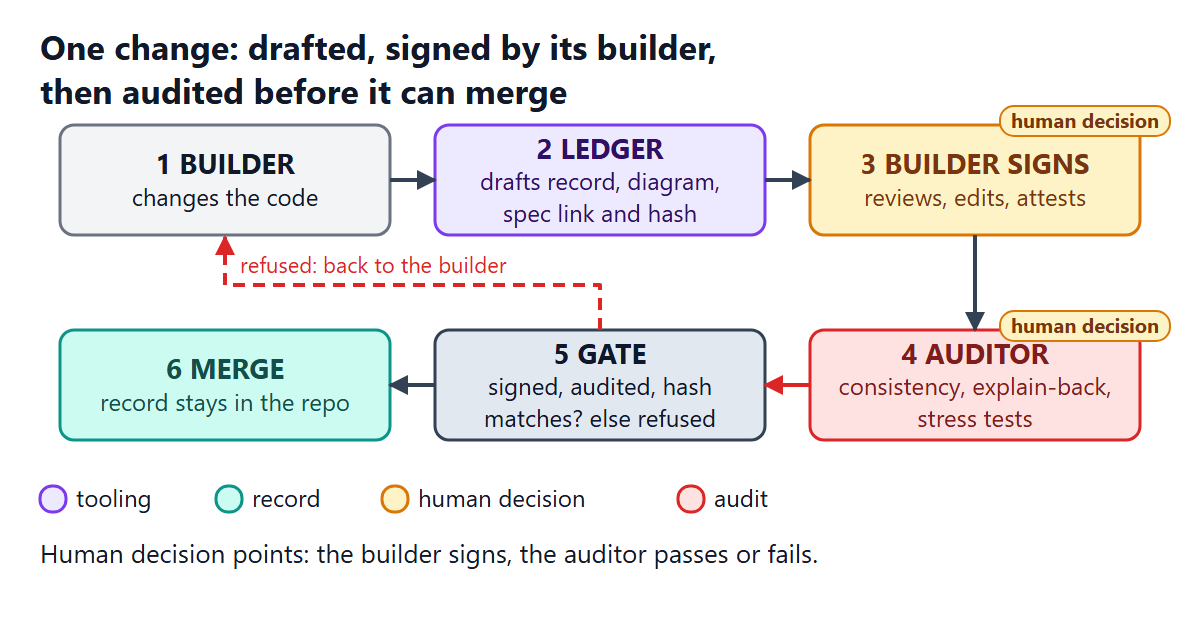
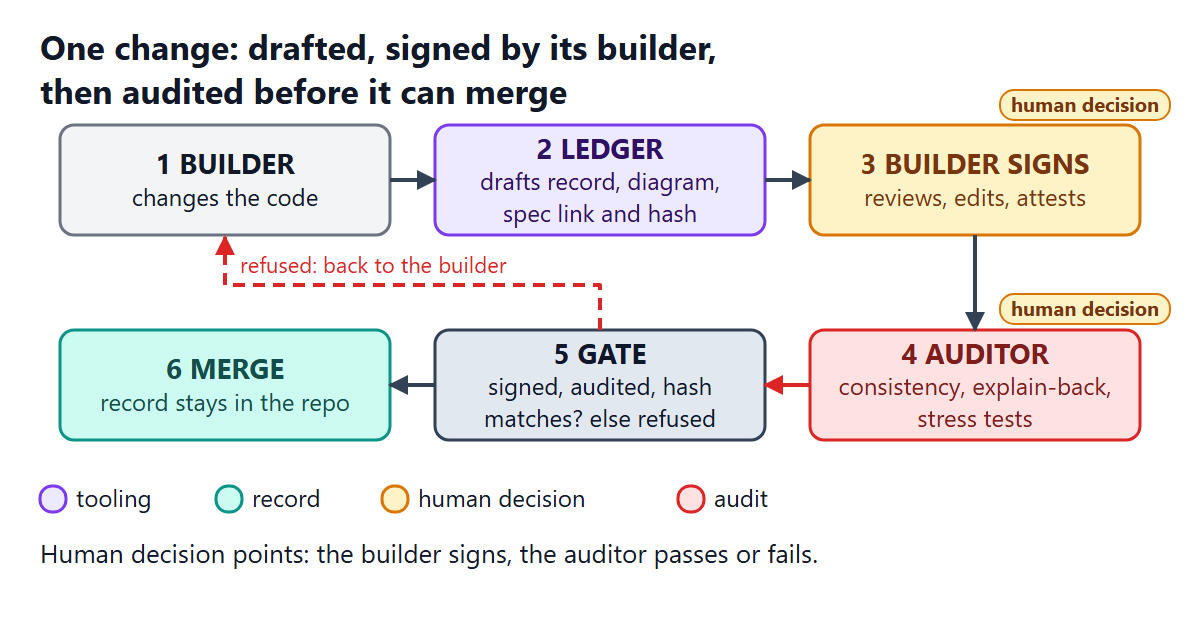
Round 2: open-proposal framing, one depth table, neutral examples, simpler demo
- README: personal-project line, a "Help shape this pattern" section, an
  honest note that a demo signature is a typed name, what auditors look at.
- SPEC: the gate uses the base branch's policy (6.2); the Ledger layer
  definition in the terms; decision text is frozen once accepted (2.5);
  section reference fix.
- Reference implementation: removed the plug-in loader, labelled as an
  illustration (not production software, not on PyPI), explicit UTF-8,
  clearer notes on the action and its limits.
- Diagrams: 01 has the Ledger bar beside Model, View and Controller with an
  arrow from each; 02 labels off the box borders; 04 shows the shared record.
- Templates, ledger.yml comment, and docs use one reversibility table.
- Actions bumped to checkout v5 and setup-python v6.

Changed region(s): [[0.8325, 0.1212, 0.9867, 0.2424], [0.8325, 0.4545, 0.9867, 0.5455]]

diff --git a/reference-implementation/ledger/draft.py b/reference-implementation/ledger/draft.py
@@ -1,15 +1,16 @@
-"""Step 1, the Ledger: draft a record for a change. Offline template by default; providers are pluggable."""
-import importlib
+"""Step 1, the Ledger: draft a record for a change, with a plain offline template (no AI, no network)."""
 import re
 from pathlib import Path
 
 from .policy import Policy
 from .records import Record, change_hash, load_all, sha256_text
 
+DRAFTER = "template"
 
-def template_provider(files: dict) -> dict:
-    """Offline drafter. `files` maps path -> number of lines (or None if the file is gone).
-    A provider is any function with this signature that returns the four section texts."""
+
+def template_sections(files: dict) -> dict:
+    """The offline drafter. `files` maps path -> number of lines (or None if the file is gone).
+    It cannot know why a change was made, so it leaves TODOs for the builder to fill in."""
     listing = "\n".join(f"- `{p}` ({'removed' if n is None else f'{n} lines'})" for p, n in files.items())
     return {
         "context": f"This change touches {len(files)} file(s):\n\n{listing}\n\nTODO: say why the change is needed.",
@@ -17,14 +18,6 @@ def template_provider(files: dict) -> dict:
         "alternatives": "TODO: list the serious alternatives, with their pros and cons.",
         "consequences": "TODO: what becomes easier or harder, and what could go wrong.",
     }
-
-
-def load_provider(spec):
-    """`None` or 'template' -> the offline drafter. 'package.module:function' -> your own provider."""
-    if not spec or spec == "template":
-        return "template", template_provider
-    module, _, func = spec.partition(":")
-    return spec, getattr(importlib.import_module(module), func)
 
 
 def _slug(title: str) -> str:
@@ -36,14 +29,13 @@ def _next_id(records_dir: Path) -> str:
     return f"{(max(ids) + 1) if ids else 1:04d}"
 
 
-def draft(root: Path, policy: Policy, files: list, title: str, spec: str = "", provider_spec=None) -> Record:
+def draft(root: Path, policy: Policy, files: list, title: str, spec: str = "") -> Record:
     root = Path(root)
-    name, provider = load_provider(provider_spec)
     sizes = {}
     for rel in files:
         f = root / rel
         sizes[rel] = len(f.read_text(encoding="utf-8", errors="replace").splitlines()) if f.is_file() else None
-    sections = provider(sizes)
+    sections = template_sections(sizes)
     body = (f"# {title}\n\n## Context\n\n{sections['context']}\n\n## Decision\n\n{sections['decision']}\n\n"
             f"## Alternatives considered\n\n{sections['alternatives']}\n\n## Consequences\n\n{sections['consequences']}\n")
     records_dir = root / policy.records_dir
@@ -57,7 +49,7 @@ def draft(root: Path, policy: Policy, files: list, title: str, spec: str = "", p
         "spec": spec or None,
         "reversibility": policy.level_for_paths(files),
         "change_hash": change_hash(root, files),
-        "drafted_by": name,
+        "drafted_by": DRAFTER,
         "draft_body_hash": sha256_text(body),
         "attested_by": None,
         "attested_at": None,

diff --git a/reference-implementation/walkthrough.py b/reference-implementation/walkthrough.py
@@ -59,7 +59,7 @@ def main():
 
     say("setup", "# 1. A builder adds a bulk discount: a model change (hard to undo) and a data migration (cannot be undone).")
     model = root / "app/model/order.py"
-    model.write_text(model.read_text() + "\n    def discounted_total(self) -> float:\n"
+    model.write_text(model.read_text(encoding="utf-8") + "\n    def discounted_total(self) -> float:\n"
                      "        qty = sum(self.items.values())\n"
                      "        return round(self.total() * (0.9 if qty >= 10 else 1.0), 2)\n", encoding="utf-8", newline="\n")
     (root / "db/migrations/003_add_discount.sql").write_text(
@@ -102,7 +102,7 @@ def main():
     ledger(root, "passing", "check", "--base", "main")
 
     say("failing", "# 9. Someone edits the model after the audit. The record and the code have drifted.")
-    model.write_text(model.read_text() + "\n# a late tweak\n", encoding="utf-8", newline="\n")
+    model.write_text(model.read_text(encoding="utf-8") + "\n# a late tweak\n", encoding="utf-8", newline="\n")
     git(root, "add", "-A")
     git(root, "commit", "-m", "Late tweak")
     ledger(root, "failing", "check", "--base", "main")

diff --git a/reference-implementation/ledger/cli.py b/reference-implementation/ledger/cli.py
@@ -15,7 +15,7 @@ def cmd_draft(a):
     files = a.files or [p for p in check_mod.changed_files(root, a.base) if not policy.ignored(p)]
     if not files:
         raise SystemExit("no files to cover: pass --files, or make a change relative to --base")
-    rec = draft_mod.draft(root, policy, files, a.title, a.spec or "", a.provider)
+    rec = draft_mod.draft(root, policy, files, a.title, a.spec or "")
     print(f"drafted {rec.path.relative_to(root).as_posix()}  (reversibility: {rec.meta['reversibility']})")
     print("next: edit the record so it is true, then run: ledger attest", rec.id, "--by <your name>")
 
@@ -65,7 +65,6 @@ def main(argv=None):
     d.add_argument("--files", nargs="*", help="files the record covers (default: files changed vs --base)")
     d.add_argument("--base", default="main")
     d.add_argument("--spec", help="link or id of the spec or story")
-    d.add_argument("--provider", help="'template' (offline, default) or 'package.module:function'")
     d.set_defaults(func=cmd_draft)
 
     t = sub.add_parser("attest", help="the builder signs the record")

diff --git a/reference-implementation/tests/test_ledger.py b/reference-implementation/tests/test_ledger.py
@@ -180,19 +180,6 @@ def test_first_adoption_falls_back_with_a_warning(tmp_path):
 
 
 # ---- drafting ------------------------------------------------------------
-def test_custom_provider_is_pluggable(repo, monkeypatch):
-    import sys
-    import types
-
-    mod = types.ModuleType("my_provider")
-    mod.draft = lambda files: {"context": "ctx from provider", "decision": "dec", "alternatives": "alt",
-                               "consequences": "con"}
-    monkeypatch.setitem(sys.modules, "my_provider", mod)
-    commit_change(repo, VIEW, "# changed\n")
-    rec = draft_mod.draft(repo, Policy.load(repo), [VIEW], "Custom", provider_spec="my_provider:draft")
-    assert "ctx from provider" in rec.body and rec.meta["drafted_by"] == "my_provider:draft"
-
-
 def test_attest_computes_edited_flag(repo):
     commit_change(repo, VIEW, "# changed\n")
     policy = Policy.load(repo)

diff --git a/reference-implementation/README.md b/reference-implementation/README.md
@@ -1,7 +1,8 @@
 # Reference implementation
 
-A small, runnable demo of the pattern on a fictional bakery ordering app. It shows the idea. It is not
-a product: an **illustration** of the idea. It does not implement everything in [SPEC.md](../SPEC.md).
+> **An illustration of the pattern, not production software.** It is a small demo on a fictional bakery
+> ordering app, and it does not implement everything in [SPEC.md](../SPEC.md). It is not published as a
+> package (no PyPI): install it from a clone, as below.
 
 ## The 60-second walkthrough
 
@@ -14,19 +15,19 @@ python walkthrough.py
 The walkthrough builds a throwaway git repository and plays one change through the whole cycle:
 
 1. A builder adds a bulk discount (a model change and a data migration). **The gate refuses**: no record covers the files.
-2. `ledger draft` drafts a record with an offline template. The builder edits it until it is true, then `ledger attest` signs it. **The gate still refuses**: not audited.
+2. `ledger draft` drafts a record with a plain offline template. The builder edits it until it is true, then `ledger attest` signs it. **The gate still refuses**: not audited.
 3. A different person runs `ledger audit`. The migration cannot be undone, so the policy also requires an independent stress test. The first attempt is **rejected**; the second, with the stress test, passes.
 4. **The gate passes.**
 5. Someone edits the model after the audit. **The gate refuses again**: the record and the code have drifted.
 
 Captured output is in [`../docs/demo-output/`](../docs/demo-output/): [failing](../docs/demo-output/failing.txt),
-[passing](../docs/demo-output/passing.txt), [full](../docs/demo-output/walkthrough.txt). (Screenshots of a failing
-and a passing pull request can be added once the repository is on GitHub.)
+[passing](../docs/demo-output/passing.txt), [full](../docs/demo-output/walkthrough.txt). The gate also runs
+on pull requests to this repository through [`gate-demo.yml`](../.github/workflows/gate-demo.yml).
 
 ## The CLI
 
 ```text
-ledger draft  --title "..." [--files a b ...] [--spec ID] [--provider template|pkg.mod:func]
+ledger draft  --title "..." [--files a b ...] [--spec ID]
 ledger attest ID --by "Builder Name"
 ledger audit  ID --auditor "Another Person" [--explain-back "..."] [--stress "..."] [--status pass|needs-changes]
 ledger check  [--base main]        # the gate; exit code 1 on failure
@@ -38,55 +39,53 @@ Use `--root <folder>` to point at a project that has a `ledger.yml`.
 
 Markdown with YAML front matter, readable by people and checkable by the gate. See
 [`../examples/`](../examples/) and [`../templates/`](../templates/). "Edited by builder" is computed
-from the text, not self-reported.
+from the text, not self-reported. The change hash is a hash of the covered files' contents.
 
 ## The policy file: `ledger.yml`
 
 Maps paths to reversibility (easy / hard / cannot be undone) and reversibility to required checks. This
 turns "irreversibility sets audit depth" into configuration. See [`demo-app/ledger.yml`](demo-app/ledger.yml).
-The gate always uses the **current** policy, so a record cannot claim a shallower level than the policy
-requires.
+The gate reads the policy from the **base branch**, so a record cannot claim a shallower level than the policy
+requires, and a pull request cannot loosen its own gate.
 
-## AI drafting is optional and pluggable
+## Drafting is a plain template
 
-By default the Ledger drafts with an offline template, so the demo runs anywhere with no key and no network.
-A provider is any function that takes `{path: line_count}` and returns the four section texts (context,
-decision, alternatives, consequences):
-
-```bash
-ledger draft --title "..." --provider my_package.my_module:my_function
-```
-
-There are no product names in this repository. If you build an "explain-back helper" that suggests questions
-to the auditor, it SHOULD use a different model from the one that wrote the code, and a person still signs.
-No such helper is included.
+The Ledger drafts with an offline template, so the demo runs anywhere with no key and no network, and no AI is
+involved. The template cannot know why a change was made, so it leaves TODOs that the builder must fill in. (The
+spec allows any drafting method: SPEC 3.5.) If you add an "explain-back helper" that suggests questions to the
+auditor, it SHOULD use a different model from the one that wrote the code, and a person still signs. No such
+helper is included.
 
 ## Use the gate in CI
 
-The gate ships as a reusable GitHub Action: [`../action.yml`](../action.yml). The README at the repository
-root shows the workflow (about three lines). The action has not been run on GitHub yet.
+The gate ships as a reusable GitHub Action: [`../action.yml`](../action.yml). The README at the repository root
+shows the workflow. Notes:
+
+- The action fetches the base branch and the history it needs itself, so a plain `actions/checkout` works.
+  `fetch-depth: 0` on checkout makes it a little faster.
+- The tag `v0.1` does not exist until the first release is made. Until then, use a commit SHA or `@main`.
+- Run it on `pull_request` events, or set the `base` input.
 
 ## Tests
 
 ```bash
-pytest        # 15 tests
+pytest        # 14 tests
 ```
 
 They cover the policy, the hash, and the gate: missing record, unattested, unaudited, passing flow, drift,
-auditing your own work, depth by reversibility, the policy being re-read at check time, a pull request that
-tries to loosen its own gate, first adoption (no policy on the base branch yet), the zero-edit flag, pluggable
-providers and the computed "edited" flag.
+auditing your own work, depth by reversibility, the policy being read from the base branch, a pull request that
+tries to loosen its own gate, first adoption (no policy on the base branch yet), the zero-edit flag and the
+computed "edited" flag.
 
 ## Limits (honest)
 
-- Names are text. The demo does not use cryptographic signatures. Use pull request identities and branch
-  protection to establish who did what.
+- **A "signature" is a typed name.** The demo does not verify who anyone is. A real setup ties attest and audit
+  to verified accounts: pull request approvals by named people, branch protection, signed commits.
 - The change hash covers whole files, not a diff.
-- Records are not locked after audit. SPEC 2.5 says they should be. A pull request could also edit an
-  existing record, because the gate reads records from the branch under test. Use code owners or repository
-  rules to protect `records/`.
-- The gate reads the **policy** from the base branch, so a pull request cannot loosen its own gate. Only when
-  the base branch has no `ledger.yml` yet (first adoption) does it use the branch's policy, and it prints a warning.
-- The Ledger does not propose diagram updates (SPEC 3.2b). It drafts the record, links the spec and hashes the change.
-- It checks files in the repository. It cannot see operations, keys or infrastructure.
+- Records are not locked after audit. SPEC 2.5 says the decision text should be frozen once accepted. A pull
+  request could also edit an existing record, because the gate reads records from the branch under test. Use code
+  owners or repository rules to protect `records/`.
+- **The demo does not draft diagrams.** The Ledger drafts the record, links the spec and hashes the change. It does
+  not propose diagram updates (SPEC 3.2b).
+- It checks files in the repository. It cannot see operations, credentials or infrastructure.
 - The package is about 400 lines including the CLI and comments, so it is small enough to read in one sitting.

diff --git a/README.md b/README.md
@@ -8,7 +8,9 @@ A design pattern for comprehension debt. Status: **v0.1, a proposal** (see [SPEC
 >
 > "Ledger" here means a record of decisions kept with the code. It is not a blockchain.
 
-Article: link added on publication. Views are my own.
+Article: link added on publication.
+
+> A personal project, made on my own time. Views are my own and do not describe or represent any employer.
 
 ## The problem
 
@@ -41,7 +43,7 @@ Writing the reasoning down helps, but it does not close the gap on its own:
 The rules, in short (the normative version is [SPEC.md](SPEC.md)):
 
 1. Every change that needs a record has one, kept in the repository next to the code it covers.
-2. A named human, the builder, attests the record. Builders use tools to build fast, but they own what they sign.
+2. A named human, the builder, attests the record. Builders use tools to build fast, but they own what they sign. (In the demo a "signature" is a typed name. A real setup ties attestation and audit to verified accounts: pull request approvals, branch protection, signed commits.)
 3. A different person audits it. **Nobody audits their own work.**
 4. The record carries a hash of the change, so the code and the record cannot drift apart unnoticed.
 5. The gate refuses a change that has no signed, audited record that still matches the code.
@@ -55,6 +57,11 @@ The rules, in short (the normative version is [SPEC.md](SPEC.md)):
 | **Behaviour** | Does the system hold up? | Independent stress and adversarial testing |
 
 A record that the builder signed with **zero edits** to the drafted text is flagged.
+
+**What auditors look at:** code quality and the damage a change could do; whether the requirements and the business
+need are met; efficiency; and whether someone who did not write it can explain it. The records also pay off later:
+when something breaks, the decision, its alternatives and its audit are written down next to the code, which helps
+debugging and reverse engineering.
 
 ### Irreversibility sets audit depth
 
@@ -99,7 +106,7 @@ switch it off.
 cd reference-implementation
 pip install -e ".[test]"
 python walkthrough.py        # a 60-second scripted walkthrough
-pytest                       # 15 tests
+pytest                       # 14 tests
 ```
 
 Use the gate in a pull request workflow. The action is [action.yml](action.yml) (the `v0.1` tag exists
@@ -111,7 +118,7 @@ jobs:
   ledger-gate:
     runs-on: ubuntu-latest
     steps:
-      - uses: actions/checkout@v4
+      - uses: actions/checkout@v5
       - uses: i-asimkhan/ledger-layer-pattern@v0.1
 ```
 
@@ -132,6 +139,24 @@ Sample output (from the walkthrough): [failing](docs/demo-output/failing.txt),
 | [action.yml](action.yml) | The gate as a reusable GitHub Action |
 | [SOURCES.md](SOURCES.md) | References, with links |
 
+## Help shape this pattern
+
+This is an open proposal, and I would like input from across the industry. It is early, and it is probably wrong in
+places. If you build, test, audit, review, manage or secure software, I would like to hear where it breaks.
+
+Questions I would like answered:
+
+1. **Where would this break in your organisation?** What would your team skip first?
+2. **How would you tell a real audit from a rubber stamp?** What evidence of understanding is enough?
+3. **What should audit depth depend on?** I use "how hard is it to undo". What else matters?
+4. **Who audits the auditors** at your size: a small team, a large organisation, high-sensitivity work?
+5. **What already does part of this?** Practices, standards or tools I should credit or compare against.
+6. **What would make the Ledger layer cheap to adopt** in the tools you already use?
+
+How to join, once the repository is public: use **GitHub Discussions** for open questions and ideas, and
+**issues** for specific proposals, spec changes and bugs (templates are provided). Pull requests to the spec,
+the FAQ and the comparison table are welcome.
+
 ## Credits and prior art
 
 This pattern adapts existing practice and builds on other people's work: Addy Osmani ("Comprehension
@@ -151,4 +176,4 @@ See [CITATION.cff](CITATION.cff).
 
 ## Author
 
-Asim Khan. Views are my own.
+Asim Khan. A personal project, made on my own time. Views are my own and do not describe or represent any employer.

diff --git a/SPEC.md b/SPEC.md
@@ -11,7 +11,9 @@ The key words MUST, MUST NOT, SHOULD, SHOULD NOT and MAY are to be read as descr
 - **Record:** a text document that explains a change and carries its evidence (section 2).
 - **Builder:** the named person responsible for a change. Builders use whatever tools they like.
 - **Auditor:** a named person, other than the builder, who checks the record against the work.
-- **Ledger:** the tooling that drafts records. The word means a record of decisions. It does not mean a blockchain.
+- **Ledger layer:** the layer of the architecture that runs beside every layer that implements behaviour. It drafts
+  the record, proposes the diagram update, links the spec or story, and hashes the change (section 3). "Ledger"
+  means a record of decisions. It does not mean a blockchain.
 - **Gate:** the automated check that decides whether a change may merge.
 - **Reversibility:** how hard a change is to undo: *easy*, *hard*, or *cannot be undone*.
 
@@ -27,9 +29,11 @@ hash** computed over the content of those files.
 2.4 A record SHOULD link the specification or story the change belongs to, and SHOULD state the
 reversibility of the change.
 
-2.5 Once an audit has passed, the decision content of a record MUST NOT be changed. A later decision
-SHOULD supersede it by a new record that links to it. Implementations MAY enforce this with repository
-rules such as code owners.
+2.5 Once an audit has passed, the decision text of a record (context, decision, alternatives, consequences) is
+**frozen** and MUST NOT be changed. Audit results are appended to the record. A later decision SHOULD supersede
+it with a new record that links to it. This follows the practice for architecture decision records (Nygard;
+described by Fowler: an accepted record is superseded, not edited). Implementations MAY enforce it with
+repository rules such as code owners.
 
 ## 3. The Ledger layer
 
@@ -93,13 +97,11 @@ the explain-back is not required, and an organisation MAY run it on a sample.
 - (e) a check that the policy requires for this change is missing;
 - (f) the change hash in the record no longer matches the code.
 
-6.2 The gate MUST evaluate required checks against the **current** policy, not the level the record
-claims for itself.
+6.2 The gate MUST evaluate required checks against the **base branch's policy**: not the level the record
+claims for itself, and not a policy file inside the change under test (or another source that the change
+cannot modify). Otherwise a change could loosen its own rules, for example by ignoring every file.
 
 6.3 The gate SHOULD be configured as a required status check, so that it cannot be skipped.
-
-6.4 The gate MUST read the policy from the **base branch** (or from another source that the change under test
-cannot modify). Otherwise a change could loosen its own rules, for example by ignoring every file.
 
 ## 7. Policy
 
@@ -124,7 +126,7 @@ with the audit scope pinned to an exact version of the code.
 
 ## 9. Conformance
 
-An implementation conforms to v0.1 if it satisfies every MUST in sections 2 to 7. Sections 8 and 9
-describe organisational practice and are not machine-checkable. The reference implementation in this
+An implementation conforms to v0.1 if it satisfies every MUST in sections 2 to 7. Section 8
+describes organisational practice and is not machine-checkable. The reference implementation in this
 repository is an illustration, not a conforming product. It does not enforce 2.5, it does not propose diagram
 updates (3.2b), and it records attestation as a typed name (4.4).

diff --git a/templates/decision-record.md b/templates/decision-record.md
@@ -1,6 +1,8 @@
 ---
 # This is the real record format the `ledger` CLI reads and writes: Markdown with YAML front matter.
 # Fictional placeholder values only. Keep the record to about a page.
+# Once an audit passes, the decision text below is frozen (SPEC 2.5): audit results are appended, and a later
+# decision supersedes this one with a new record. It is not edited.
 id: "0000"
 title: Short title of the decision
 status: proposed            # proposed | attested | accepted (after a passing audit); later: superseded
@@ -8,7 +10,7 @@ covers:                     # the files this record is about
   - path/to/file.py
 spec: STORY-0             # link or id of the spec or story
 reversibility: easy         # easy | hard | cannot_undo  (the policy decides; this sets how deep the audit goes)
-change_hash: sha256:...     # computed by the tool over the covered files
+change_hash: sha256:...     # computed by the tool: a hash of the covered files' contents (line endings normalised)
 drafted_by: template        # how the draft was made (template or a provider name)
 draft_body_hash: sha256:... # computed by the tool, so "edited by builder" cannot be self-reported
 attested_by: null           # the builder's name, set by `ledger attest`

diff --git a/FAQ.md b/FAQ.md
@@ -44,8 +44,8 @@ No. It means a record of decisions kept with the code. A blockchain is not requi
 
 ## Do I need AI to use this?
 
-No. The Ledger drafts records with an offline template by default. You can plug in any drafting method.
-The pattern works whether a change was written by hand or with tools, as long as there is a named builder,
+No. The reference implementation drafts records with a plain offline template, and no AI is involved. The
+specification allows any drafting method (SPEC 3.5). The pattern works whether a change was written by hand or with tools, as long as there is a named builder,
 a record, and an independent audit.
 
 ## Who audits the auditors?
